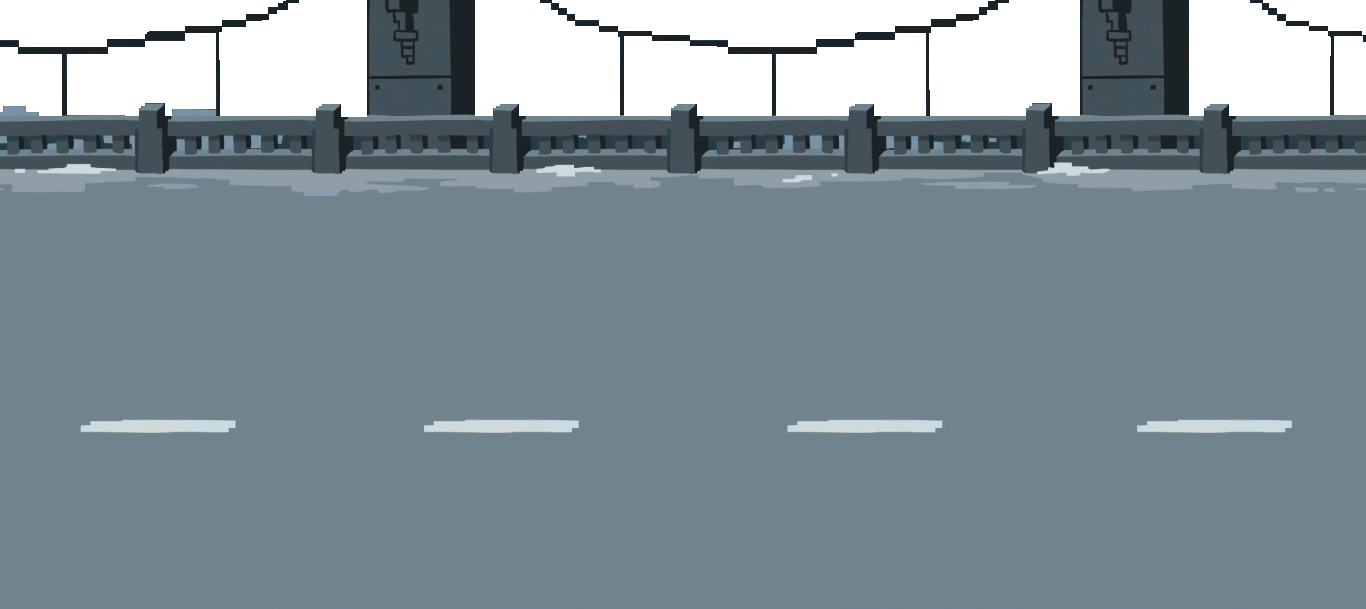
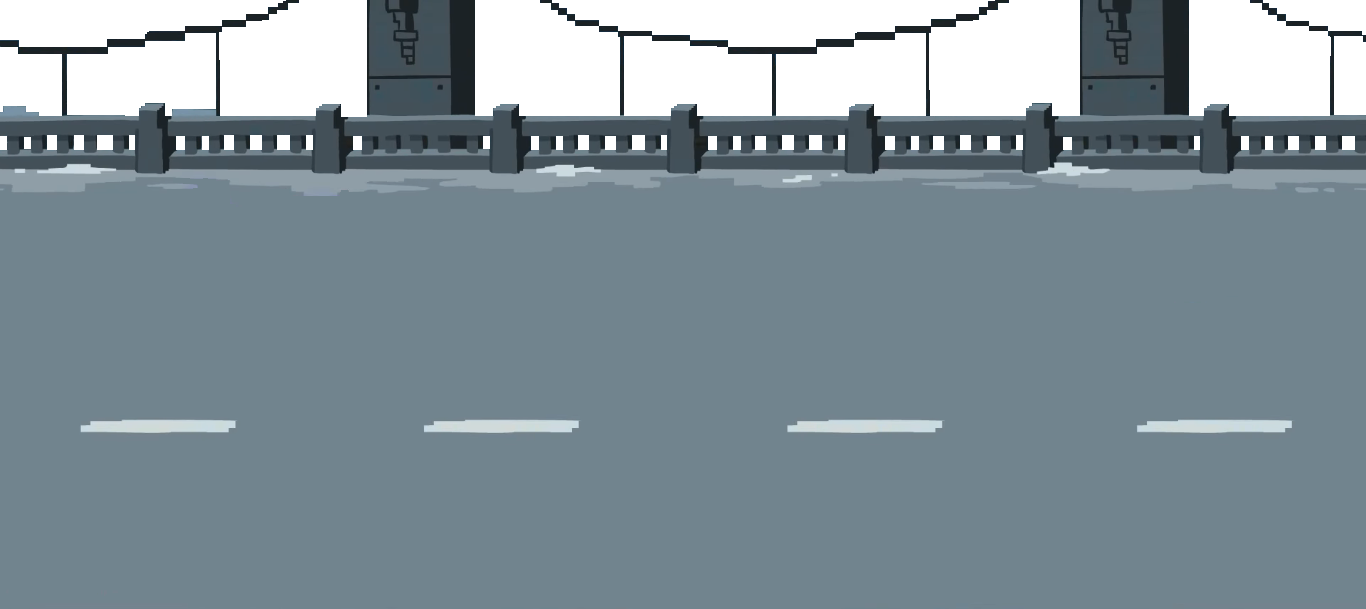
updated some sprites

diff --git a/batmetal.py b/batmetal.py
@@ -152,8 +152,10 @@ def main():
     batmovile = Player()
 
     background_x = 0
+    sky_x = 0
 
-    bridge = pygame.image.load("bridge.png").convert()
+    bridge = pygame.image.load("bridge.png").convert_alpha()
+    sky = pygame.image.load("sky.png").convert()
     bottom_bar = pygame.image.load("bottom_bar.png").convert()
     cannon_fire = pygame.image.load("cannon_fire.png").convert_alpha()
     shoot_sprite = pygame.image.load("shoot.png").convert_alpha()
@@ -212,6 +214,7 @@ def main():
 
         allsprites = pygame.sprite.RenderPlain(all_sprites_tuple)
 
+        draw_background(sky_x, sky, screen)
         draw_background(background_x, bridge, screen)
 
         allsprites.update()
@@ -226,6 +229,7 @@ def main():
         pygame.display.flip()
 
         background_x -= 5
+        sky_x -= 1
         blocks_hit_list = pygame.sprite.spritecollide(batmovile, cans, True)
         blocks_hit_list = pygame.sprite.groupcollide(shoots, cans, True, True)
         blocks_hit_list = pygame.sprite.groupcollide(misils, cans, True, True)
